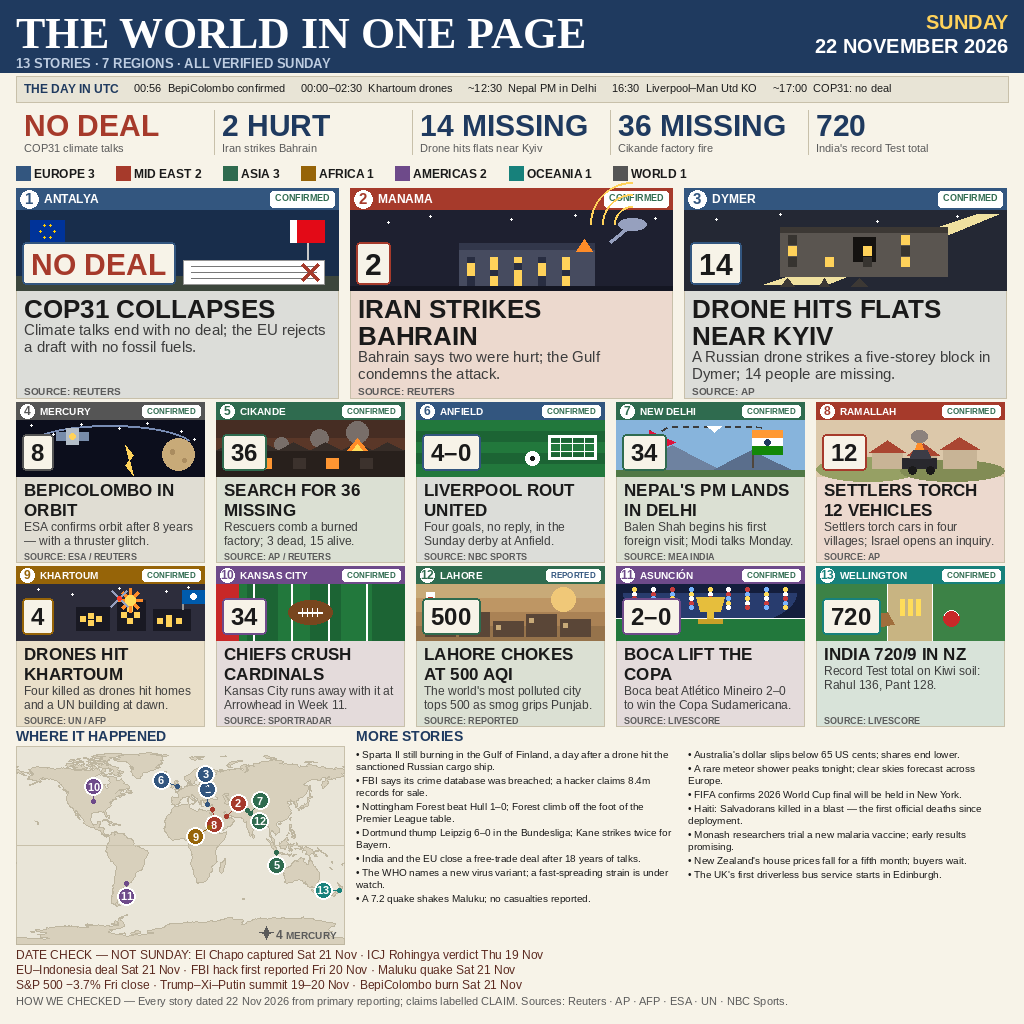
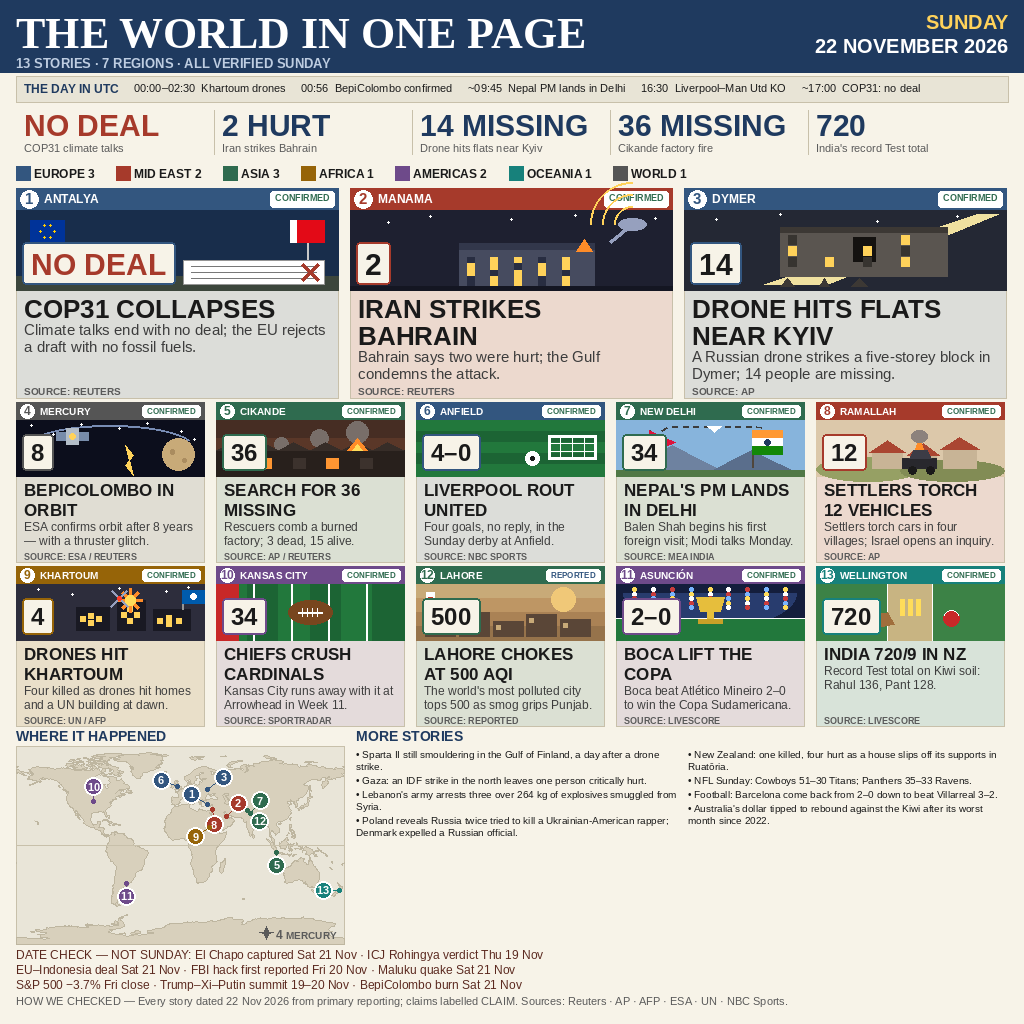
V1 putaran 2: MORE terverifikasi 8 brief, pin 1/3, timeline Nepal

diff --git a/render.py b/render.py
@@ -161,28 +161,20 @@ STORIES = [
 ]
 
 MORE = [
-    "Sparta II still burning in the Gulf of Finland, a day after a drone hit the sanctioned Russian cargo ship.",
-    "FBI says its crime database was breached; a hacker claims 8.4m records for sale.",
-    "Nottingham Forest beat Hull 1–0; Forest climb off the foot of the Premier League table.",
-    "Dortmund thump Leipzig 6–0 in the Bundesliga; Kane strikes twice for Bayern.",
-    "India and the EU close a free-trade deal after 18 years of talks.",
-    "The WHO names a new virus variant; a fast-spreading strain is under watch.",
-    "A 7.2 quake shakes Maluku; no casualties reported.",
-    "Australia's dollar slips below 65 US cents; shares end lower.",
-    "A rare meteor shower peaks tonight; clear skies forecast across Europe.",
-    "FIFA confirms 2026 World Cup final will be held in New York.",
-    "Haiti: Salvadorans killed in a blast — the first official deaths since deployment.",
-    "Monash researchers trial a new malaria vaccine; early results promising.",
-    "New Zealand's house prices fall for a fifth month; buyers wait.",
-    "The UK's first driverless bus service starts in Edinburgh.",
-    "A record 1.2m people visit the Louvre in October.",
-    "The world's oldest person turns 116 in Japan.",
+    "Sparta II still smouldering in the Gulf of Finland, a day after a drone strike.",
+    "Gaza: an IDF strike in the north leaves one person critically hurt.",
+    "Lebanon's army arrests three over 264 kg of explosives smuggled from Syria.",
+    "Poland reveals Russia twice tried to kill a Ukrainian-American rapper; Denmark expelled a Russian official.",
+    "New Zealand: one killed, four hurt as a house slips off its supports in Ruatōria.",
+    "NFL Sunday: Cowboys 51–30 Titans; Panthers 35–33 Ravens.",
+    "Football: Barcelona come back from 2–0 down to beat Villarreal 3–2.",
+    "Australia's dollar tipped to rebound against the Kiwi after its worst month since 2022.",
 ]
 
 TIMELINE = [
-    ("00:56", "BepiColombo confirmed"),
     ("00:00–02:30", "Khartoum drones"),
-    ("~12:30", "Nepal PM in Delhi"),
+    ("00:56", "BepiColombo confirmed"),
+    ("~09:45", "Nepal PM lands in Delhi"),
     ("16:30", "Liverpool–Man Utd KO"),
     ("~17:00", "COP31: no deal"),
 ]
@@ -657,8 +649,8 @@ def draw_card(draw, x0, y0, w, h, st):
 
 # ---------------------------------------------------------------- map
 PINS = [  # lon, lat, n, dx, dy (offset of the numbered pin from true spot)
-    (30.7, 36.9, 1, 0, -15), (50.6, 26.2, 2, 12, -13),
-    (30.3, 50.8, 3, -2, -15), (106.4, -6.4, 5, 0, 13),
+    (30.7, 36.9, 1, -16, -10), (50.6, 26.2, 2, 12, -13),
+    (30.3, 50.8, 3, 16, -12), (106.4, -6.4, 5, 0, 13),
     (-3.0, 53.4, 6, -16, -6), (77.2, 28.6, 7, 10, -13),
     (35.2, 31.9, 8, 2, 15), (32.5, 15.6, 9, -14, 9),
     (-94.6, 39.1, 10, 0, -15), (-58.4, -34.6, 11, 0, 13),
@@ -779,7 +771,7 @@ def render(out_path):
             draw_card(draw, MX + c * (card_w + GUT), y + r * (card_h + 4),
                       card_w, card_h, st)
     y += 2 * card_h + 4
-    # ---- bottom row: map + MORE (7 items per column)
+    # ---- bottom row: map + MORE (4 items per column)
     bottom_h = 1024 - 76 - y - 4
     map_x1 = MX + 328
     draw.text((MX, y + 2), "WHERE IT HAPPENED", font=F_SANSB(14), fill=NAVY)
@@ -791,7 +783,7 @@ def render(out_path):
     for col in range(2):
         cx = lx + col * (col_w + GUT)
         my = y + 22
-        for item in MORE[col * 7:(col + 1) * 7]:
+        for item in MORE[col * 4:(col + 1) * 4]:
             lines = fit_lines(draw, "•  " + item, fmore, col_w, 2)
             for ln in lines:
                 draw.text((cx, my), ln, font=fmore, fill=INK)

diff --git a/STORIES.md b/STORIES.md
@@ -28,21 +28,33 @@ Oceania 1, World 1 — 13 stories, 7 regions.
 
 ## The day in UTC
 
-- 00:56 — ESA confirms BepiColombo in orbit
 - 00:00–02:30 — Drones strike Khartoum
-- ~12:30 — Nepal PM lands in Delhi
+- 00:56 — ESA confirms BepiColombo in orbit
+- ~09:45 — Nepal PM lands in Delhi (3:15 PM IST)
 - 16:30 — Liverpool v Man Utd kicks off
 - ~17:00 — COP31 talks end with no deal
 
-## More stories (14 briefs on the page)
+## More stories (8 briefs on the page)
 
-Sparta II still burning in the Gulf of Finland; FBI crime-database
-breach; Nottingham Forest 1–0 Hull; Dortmund 6–0 Leipzig; India–EU
-free-trade deal after 18 years; WHO names a new virus variant; 7.2
-Maluku quake; Australian dollar below 65 US cents; meteor shower peaks;
-FIFA confirms 2026 World Cup final in New York; Haiti blast deaths;
-Monash malaria vaccine trial; NZ house prices fall; UK's first
-driverless bus service in Edinburgh.
+1. Sparta II still smouldering in the Gulf of Finland, a day after a drone strike. — Reuters/CNN, 22 Nov 2026 (fire still smouldering Sunday; towing began Sunday; drone strike Saturday).
+2. Gaza: an IDF strike in the north leaves one person critically hurt. — 22 Nov 2026, published 16:19 UTC.
+3. Lebanon's army arrests three over 264 kg of explosives smuggled from Syria. — AFP, 22 Nov 2026 (seizure Saturday, announced Sunday).
+4. Poland reveals Russia twice tried to kill a Ukrainian-American rapper; Denmark expelled a Russian official. — AP, 22 Nov 2026 (Poland's disclosure Sunday; Denmark's expulsion Friday).
+5. New Zealand: one killed, four hurt as a house slips off its supports in Ruatōria. — New Zealand Police, 22 Nov 2026 (Sunday morning, Te Huinga Avenue).
+6. NFL Sunday: Cowboys 51–30 Titans; Panthers 35–33 Ravens. — Reuters, 22 Nov 2026.
+7. Football: Barcelona come back from 2–0 down to beat Villarreal 3–2. — Sportradar, 22 Nov 2026.
+8. Australia's dollar tipped to rebound against the Kiwi after its worst month since 2022. — Bloomberg, 22 Nov 2026 21:16 (analyst forecast).
+
+## Left out — not Sunday's news
+
+Yemen army 149/816 (announced Sat 21 Nov); UN killer-robot talks
+(concluded Sat 21 Nov); France's UN meeting request (Fri 20 Nov);
+Croatia protest (Sat evening 21 Nov); Haiti deaths (announced Fri
+20 Nov); Monash family-tree study (ScienceDaily 18 Nov); Wales–
+Australia rugby (Sat 21 Nov — and Australia won, not Wales);
+Columbus Crew 3–0 Inter Miami (Sat night); Newcastle–Arsenal 2–2
+(Sat 21 Nov). Each was checked against its primary source before
+being left out.
 
 ## DATE CHECK — not Sunday
 

diff --git a/README.md b/README.md
@@ -6,12 +6,13 @@
 
 One image that sums up the world's news of **Sunday 22 November 2026**:
 13 verified stories from 7 regions, a UTC timeline of the day, the day's
-five big numbers, a world map with every story pinned, 14 more stories,
+five big numbers, a world map with every story pinned, 8 more stories,
 and a DATE CHECK strip that keeps non-Sunday news out of the picture.
 
 ## The entry
 
-`entry.png` — 1024×1024 px, 227,423 bytes, drawn in this session by
+`entry.png` — 1024×1024 px, 216,750 bytes (sha256
+e0878d6653a3b2464b530d6b182335d21cb98465b9d9219ace2d8c89101af2d6), drawn in this session by
 `render.py` (Python + Pillow, build-time only) and copied to
 `/output/entry.png` by `main.py` (Python 3.13, standard library only).
 Two runs produce byte-identical output; the program uses no network.
@@ -38,7 +39,7 @@ mkdir -p out && MAKEFUN_OUTPUT_DIR=out python3 main.py
 12. **LAHORE CHOKES AT 500 AQI** — The world's most polluted city tops 500 as smog grips Punjab. (Reported, 22 Nov)
 13. **INDIA 720/9 IN NZ** — Wellington. Record Test total on Kiwi soil: Rahul 136, Pant 128. (LiveScore, 22 Nov)
 
-Full sourcing, dates, and the 14 "MORE STORIES" briefs are in
+Full sourcing, dates, and the 8 "MORE STORIES" briefs are in
 [STORIES.md](STORIES.md).
 
 ## How it was checked
